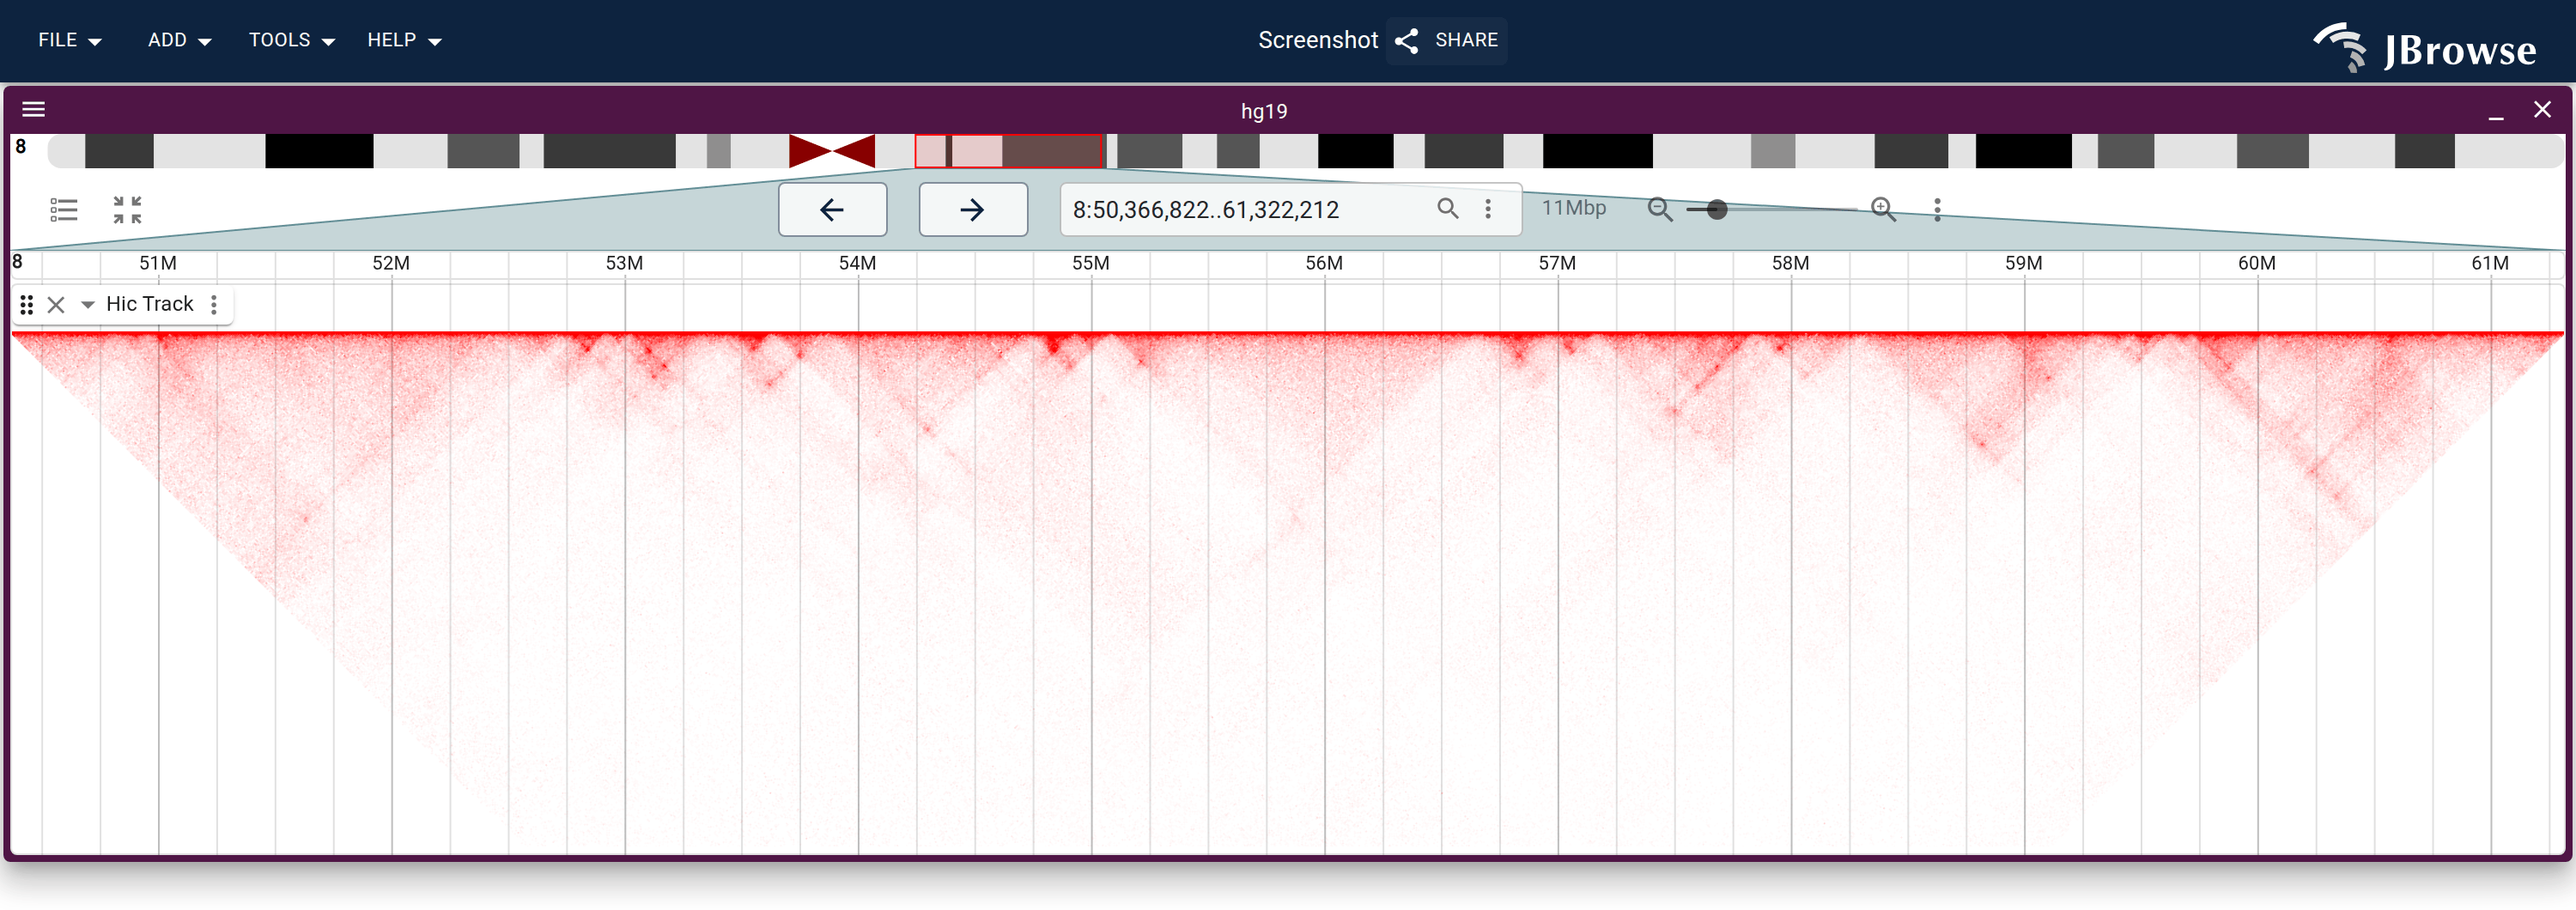
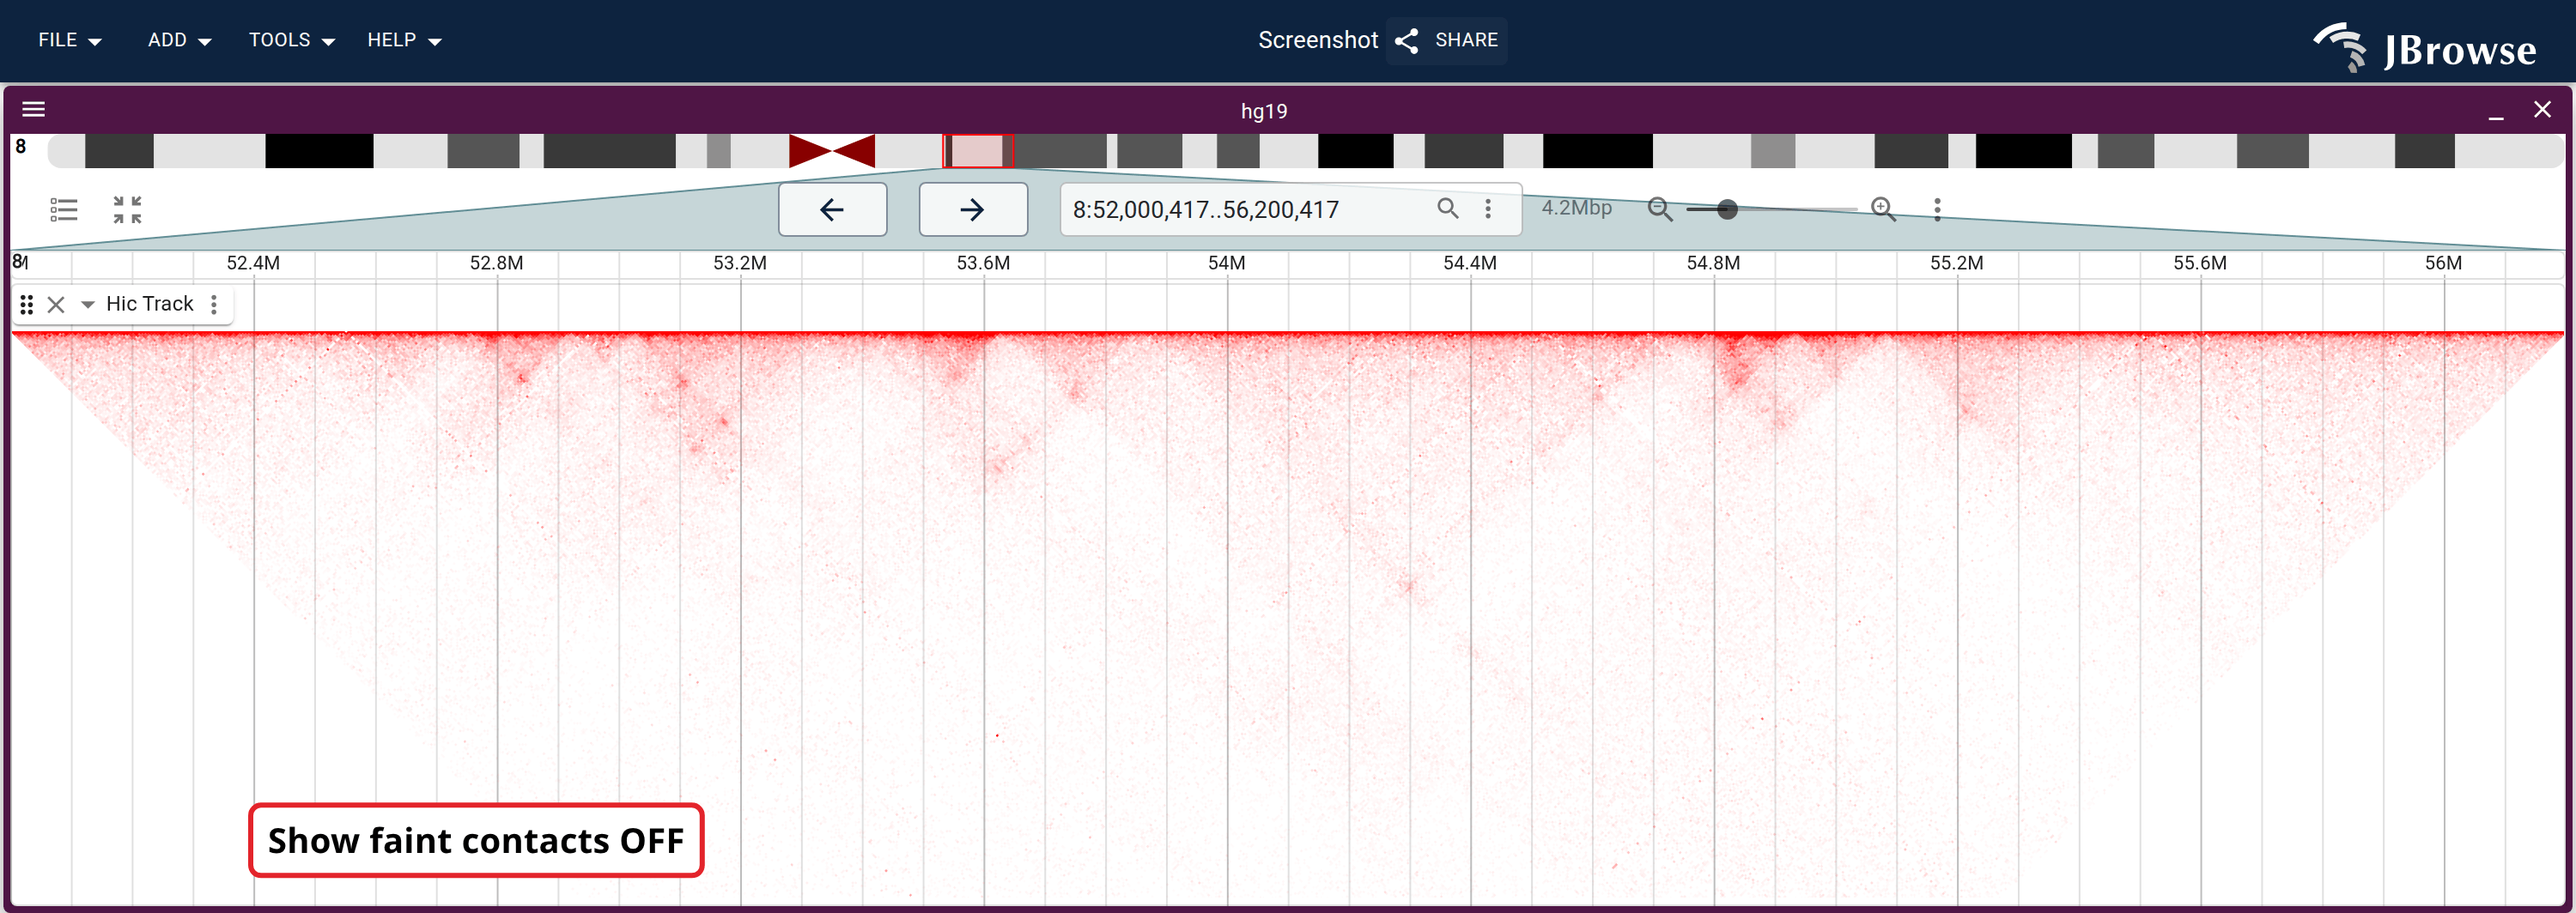
docs(website): give the Hi-C guide a whole-genome frame, and make the faint-contacts pair a comparison
Two review notes, one section.

The whole-genome overview asked for on `hic/two_regions` is a new figure rather
than a change to it: `two_regions` is the same region-pair machinery finding real
cross-region signal inside chr8, which the genome-wide frame cannot show.
`displayedRegionNames` is the declarative way in, and it names chr1 to chrY so
the unplaced and alt contigs don't take a third of the width for slivers.

Two things had to be settled before it was publishable. The first render was a
1px pink smear along the diagonal -- at 2.4 Mb/px contact frequency has decayed
over nearly every bin on screen, so on the linear ramp all 24 triangles sit under
the noise floor. Log scale makes them solid and the centromere becomes the notch
out of each one, so the guide says that rather than leaving `useLogScale` as an
unexplained setting on the spec. Second, the blocks *between* the chromosomes are
empty, and that is the file rather than the fetch: `intra_nofrag_30.hic`'s master
index (the footer at the header's `masterIndexPos`) holds 26 entries and every
one is a self-pair, `0_0` through `25_25`. The caption says so, because otherwise
the figure reads as "JBrowse doesn't draw translocations".

`hic/faint_contacts` was proposed for deletion. It stays -- the setting is on by
default, so it is the state every other Hi-C figure on the site is shot in, and
without a picture the "Adjusting the color scale" section asserts a difference
[…]

diff --git a/website/src/lib/galleryLinks.generated.ts b/website/src/lib/galleryLinks.generated.ts
@@ -57,8 +57,9 @@ export const specSessionUrls: Record<string, string> = {
   "alignments_track_arcs": "?config=test_data/config_demo.json&session=spec-%7B%22views%22%3A%5B%7B%22type%22%3A%22LinearGenomeView%22%2C%22assembly%22%3A%22hg19%22%2C%22loc%22%3A%22chr15%3A45%2C003%2C000-45%2C012%2C000%22%2C%22trackLabels%22%3A%22offset%22%2C%22tracks%22%3A%5B%7B%22trackId%22%3A%22ncbi_gff_hg19%22%2C%22type%22%3A%22LinearBasicDisplay%22%2C%22height%22%3A120%7D%2C%7B%22trackId%22%3A%22Pairend_StrandSpecific_51mer_Human_hg19%22%2C%22type%22%3A%22LinearAlignmentsDisplay%22%2C%22showSashimiLabels%22%3Atrue%2C%22sashimiArcsMode%22%3A%22auto%22%2C%22scaleType%22%3A%22log%22%2C%22featureHeight%22%3A1%2C%22featureSpacing%22%3A0%7D%5D%7D%5D%7D&sessionName=Screenshot",
   "hic_track": "?config=test_data/config_demo.json&session=spec-%7B%22views%22%3A%5B%7B%22type%22%3A%22LinearGenomeView%22%2C%22assembly%22%3A%22hg19%22%2C%22loc%22%3A%22chr8%3A50%2C366%2C343-61%2C321%2C733%22%2C%22trackLabels%22%3A%22offset%22%2C%22tracks%22%3A%5B%7B%22trackId%22%3A%22ncbi_gff_hg19%22%2C%22type%22%3A%22LinearBasicDisplay%22%2C%22showDescriptions%22%3Afalse%7D%2C%22hic%22%5D%7D%5D%7D&sessionName=Screenshot",
   "hic/two_regions": "?config=test_data/config_demo.json&session=spec-%7B%22views%22%3A%5B%7B%22type%22%3A%22LinearGenomeView%22%2C%22assembly%22%3A%22hg19%22%2C%22loc%22%3A%22chr8%3A52%2C000%2C000-54%2C000%2C000%20chr8%3A54%2C200%2C000-56%2C200%2C000%22%2C%22trackLabels%22%3A%22offset%22%2C%22tracks%22%3A%5B%22hic%22%5D%7D%5D%7D&sessionName=Screenshot",
-  "hic/percentile_off": "?config=test_data/config_demo.json&session=spec-%7B%22views%22%3A%5B%7B%22type%22%3A%22LinearGenomeView%22%2C%22assembly%22%3A%22hg19%22%2C%22loc%22%3A%22chr8%3A50%2C366%2C343-61%2C321%2C733%22%2C%22trackLabels%22%3A%22offset%22%2C%22tracks%22%3A%5B%7B%22trackId%22%3A%22hic%22%2C%22useColorPercentile%22%3Afalse%7D%5D%7D%5D%7D&sessionName=Screenshot",
-  "hic/percentile_on": "?config=test_data/config_demo.json&session=spec-%7B%22views%22%3A%5B%7B%22type%22%3A%22LinearGenomeView%22%2C%22assembly%22%3A%22hg19%22%2C%22loc%22%3A%22chr8%3A50%2C366%2C343-61%2C321%2C733%22%2C%22trackLabels%22%3A%22offset%22%2C%22tracks%22%3A%5B%7B%22trackId%22%3A%22hic%22%2C%22useColorPercentile%22%3Atrue%7D%5D%7D%5D%7D&sessionName=Screenshot",
+  "hic/whole_genome": "?config=test_data/config_demo.json&session=spec-%7B%22views%22%3A%5B%7B%22type%22%3A%22LinearGenomeView%22%2C%22assembly%22%3A%22hg19%22%2C%22displayedRegionNames%22%3A%5B%22chr1%22%2C%22chr2%22%2C%22chr3%22%2C%22chr4%22%2C%22chr5%22%2C%22chr6%22%2C%22chr7%22%2C%22chr8%22%2C%22chr9%22%2C%22chr10%22%2C%22chr11%22%2C%22chr12%22%2C%22chr13%22%2C%22chr14%22%2C%22chr15%22%2C%22chr16%22%2C%22chr17%22%2C%22chr18%22%2C%22chr19%22%2C%22chr20%22%2C%22chr21%22%2C%22chr22%22%2C%22chrX%22%2C%22chrY%22%5D%2C%22trackLabels%22%3A%22offset%22%2C%22tracks%22%3A%5B%7B%22trackId%22%3A%22hic%22%2C%22useLogScale%22%3Atrue%2C%22height%22%3A100%7D%5D%7D%5D%7D&sessionName=Screenshot",
+  "hic/percentile_off": "?config=test_data/config_demo.json&session=spec-%7B%22views%22%3A%5B%7B%22type%22%3A%22LinearGenomeView%22%2C%22assembly%22%3A%22hg19%22%2C%22loc%22%3A%22chr8%3A52%2C000%2C000-56%2C200%2C000%22%2C%22trackLabels%22%3A%22offset%22%2C%22tracks%22%3A%5B%7B%22trackId%22%3A%22hic%22%2C%22useColorPercentile%22%3Afalse%2C%22height%22%3A330%7D%5D%7D%5D%7D&sessionName=Screenshot",
+  "hic/percentile_on": "?config=test_data/config_demo.json&session=spec-%7B%22views%22%3A%5B%7B%22type%22%3A%22LinearGenomeView%22%2C%22assembly%22%3A%22hg19%22%2C%22loc%22%3A%22chr8%3A52%2C000%2C000-56%2C200%2C000%22%2C%22trackLabels%22%3A%22offset%22%2C%22tracks%22%3A%5B%7B%22trackId%22%3A%22hic%22%2C%22useColorPercentile%22%3Atrue%2C%22height%22%3A330%7D%5D%7D%5D%7D&sessionName=Screenshot",
   "hic/overlay_controls": "?config=test_data/config_demo.json&session=spec-%7B%22views%22%3A%5B%7B%22type%22%3A%22LinearGenomeView%22%2C%22assembly%22%3A%22hg19%22%2C%22loc%22%3A%22chr8%3A50%2C366%2C343-61%2C321%2C733%22%2C%22trackLabels%22%3A%22offset%22%2C%22tracks%22%3A%5B%7B%22trackId%22%3A%22hic%22%2C%22showLegend%22%3Atrue%2C%22showResolutionControls%22%3Atrue%7D%5D%7D%5D%7D&sessionName=Screenshot",
   "alignments/modifications2": "?config=test_data/config_demo.json&session=spec-%7B%22sessionTracks%22%3A%5B%7B%22type%22%3A%22AlignmentsTrack%22%2C%22trackId%22%3A%22human_chr20_mod_call_5mC_5hmC_CG_cram_modifications%22%2C%22name%22%3A%22human_chr20_mod_call_5mC_5hmC_CG%20(CRAM)%20(modifications)%22%2C%22assemblyNames%22%3A%5B%22hg38%22%5D%2C%22adapter%22%3A%7B%22type%22%3A%22CramAdapter%22%2C%22cramLocation%22%3A%7B%22uri%22%3A%22https%3A%2F%2Fjbrowse.org%2Fgenomes%2FGRCh38%2Fmethylation%2Fhuman_chr20_mod_call_5mC_5hmC_CG.cram%22%2C%22locationType%22%3A%22UriLocation%22%7D%2C%22craiLocation%22%3A%7B%22uri%22%3A%22https%3A%2F%2Fjbrowse.org%2Fgenomes%2FGRCh38%2Fmethylation%2Fhuman_chr20_mod_call_5mC_5hmC_CG.cram.crai%22%2C%22locationType%22%3A%22UriLocation%22%7D%2C%22sequenceAdapter%22%3A%7B%22type%22%3A%22BgzipFastaAdapter%22%2C%22fastaLocation%22%3A%7B%22uri%22%3A%22https%3A%2F%2Fjbrowse.org%2Fgenomes%2FGRCh38%2Ffasta%2Fhg38.prefix.fa.gz%22%2C%22locationType%22%3A%22UriLocation%22%7D%2C%22faiLocation%22%3A%7B%22uri%22%3A%22https%3A%2F%2Fjbrowse.org%2Fgenomes%2FGRCh38%2Ffasta%2Fhg38.prefix.fa.gz.fai%22%2C%22locationType%22%3A%22UriLocation%22%7D%2C%22gziLocation%22%3A%7B%22uri%22%3A%22https%3A%2F%2Fjbrowse.org%2Fgenomes%2FGRCh38%2Ffasta%2Fhg38.prefix.fa.gz.gzi%22%2C%22locationType%22%3A%22UriLocation%22%7D%7D%7D%7D%5D%2C%22views%22%3A%5B%7B%22type%22%3A%22LinearGenomeView%22%2C%22assembly%22%3A%22hg38%22%2C%22loc%22%3A%22chr20%3A19%2C742%2C000-19%2C778%2C000%22%2C%22tracks%22%3A%5B%22cpgisland_ucsc_hg38%22%2C%7B%22trackId%22%3A%22human_chr20_mod_call_5mC_5hmC_CG_cram_modifications%22%2C%22colorBy%22%3A%7B%22type%22%3A%22modifications%22%7D%2C%22forceLoad%22%3Atrue%7D%2C%7B%22trackId%22%3A%22human_chr20_mod_call_5mC_5hmC_CG_cram%22%2C%22colorBy%22%3A%7B%22type%22%3A%22modifications%22%2C%22modifications%22%3A%7B%22fillUnmarked%22%3Atrue%7D%7D%2C%22forceLoad%22%3Atrue%7D%5D%7D%5D%7D&sessionName=Screenshot",
   "alignments/haplotype": "?config=test_data/config_demo.json&session=spec-%7B%22sessionTracks%22%3A%5B%7B%22type%22%3A%22AlignmentsTrack%22%2C%22trackId%22%3A%22hg002_nanopore_hp%22%2C%22name%22%3A%22HG002%20ONT%22%2C%22assemblyNames%22%3A%5B%22hg19%22%5D%2C%22adapter%22%3A%7B%22type%22%3A%22BamAdapter%22%2C%22bamLocation%22%3A%7B%22uri%22%3A%22https%3A%2F%2Fjbrowse.org%2Fdemos%2Fhg002%2FHG002.ONTrel2.HP.hs37d5.demo_slices.bam%22%2C%22locationType%22%3A%22UriLocation%22%7D%2C%22index%22%3A%7B%22location%22%3A%7B%22uri%22%3A%22https%3A%2F%2Fjbrowse.org%2Fdemos%2Fhg002%2FHG002.ONTrel2.HP.hs37d5.demo_slices.bam.bai%22%2C%22locationType%22%3A%22UriLocation%22%7D%2C%22indexType%22%3A%22BAI%22%7D%7D%7D%5D%2C%22views%22%3A%5B%7B%22type%22%3A%22LinearGenomeView%22%2C%22assembly%22%3A%22hg19%22%2C%22loc%22%3A%221%3A63%2C005%2C000-63%2C008%2C000%22%2C%22tracks%22%3A%5B%7B%22trackId%22%3A%22hg002_nanopore_hp%22%2C%22type%22%3A%22LinearAlignmentsDisplay%22%2C%22height%22%3A500%2C%22forceLoad%22%3Atrue%2C%22groupBy%22%3A%7B%22type%22%3A%22tag%22%2C%22tag%22%3A%22HP%22%7D%2C%22colorBy%22%3A%7B%22type%22%3A%22tag%22%2C%22tag%22%3A%22HP%22%7D%7D%5D%7D%5D%7D&sessionName=Screenshot",

diff --git a/website/scripts/specs/alignments.ts b/website/scripts/specs/alignments.ts
@@ -536,6 +536,50 @@ export const alignmentsSpecs: ScreenshotSpec[] = [
     settleMs: 10000,
   },
 
+  // The same region-pair machinery taken to the whole genome: every chromosome
+  // displayed at once, so the fetch is every chromosome against every other one
+  // and the picture is the block diagonal. `displayedRegionNames` is the
+  // declarative way in — whole chromosomes in the order given, no menu to drive
+  // — and it names the 24 main ones so the unplaced and alt contigs don't take a
+  // third of the width for slivers too narrow to draw a triangle in.
+  //
+  // useLogScale is not decoration here, it is what makes the figure exist. At
+  // 2.4 Mb/px contact frequency has decayed over almost every bin on screen, so
+  // on the linear ramp all 24 triangles render as a 1px pink smear along the
+  // diagonal (rendered it that way first). On log they are solid, and the
+  // centromeres show as the notch out of each one.
+  //
+  // The off-diagonal blocks are empty because the FILE has nothing to put there,
+  // not because the fetch or the binsize failed: intra_nofrag_30.hic's master
+  // index (footer at the header's masterIndexPos) holds 26 entries and every one
+  // is a self-pair, `0_0` through `25_25`. Worth knowing before reading this as
+  // "JBrowse doesn't draw translocations" — hic/two_regions is the same
+  // machinery finding real cross-region signal within chr8.
+  {
+    mode: 'url',
+    name: 'hic/whole_genome',
+    url: lgvSession(DEMO_CONFIG, {
+      assembly: 'hg19',
+      displayedRegionNames: [
+        ...Array.from({ length: 22 }, (_, i) => `chr${i + 1}`),
+        'chrX',
+        'chrY',
+      ],
+      trackLabels: 'offset',
+      // 100, against a default that leaves ~190px of white under the drawing: a
+      // triangle is half as tall as its region is wide, and the widest region
+      // here is chr1 at ~113px of the 1450px genome, so 57px is the tallest
+      // thing the display has to hold
+      tracks: [{ trackId: 'hic', useLogScale: true, height: 100 }],
+    }),
+    viewportHeight: 302,
+    readySelector: '[data-testid="hic-display-done"]',
+    // 24 regions is 300 region pairs to fetch, so both waits are well past what
+    // a single-region figure needs
+    readyTimeout: 180000,
+    settleMs: 20000,
+  },
+
   // The two halves of the faint-contacts comparison. Same region, same ramp;
   // the only difference is where the color scale saturates. With
   // useColorPercentile off the diagonal owns the scale (maxScore/20) and the
@@ -543,34 +587,54 @@ export const alignmentsSpecs: ScreenshotSpec[] = [
   // percentile and off-diagonal structure separates from background. Kept as
   // two declarative specs composed below, so each state stays an openable live
   // link and neither can drift from a menu-driving capture.
-  {
-    mode: 'url',
-    name: 'hic/percentile_off',
+  //
+  // 4.2 Mb, not the 11 Mb the rest of this section is shot on. The setting is
+  // about CONTRAST, and at 11 Mb the off half was a blank frame with a red line
+  // across the top of it — a comparison whose losing side shows nothing reads as
+  // a broken capture rather than as a washed-out scale. Here the TADs are
+  // several hundred px wide, so both halves have blocks in them and the
+  // difference is that one has edges.
+  //
+  // Each half carries its own label, because a compose has no annotation layer
+  // of its own — the parts are captured separately and appended — and without
+  // one the stack needs the caption to say which frame is which.
+  ...(
+    [
+      ['hic/percentile_off', false, 'Show faint contacts OFF'],
+      ['hic/percentile_on', true, 'Show faint contacts ON (the default)'],
+    ] as const
+  ).map(([name, useColorPercentile, label]) => ({
+    mode: 'url' as const,
+    name,
     url: lgvSession(DEMO_CONFIG, {
       assembly: 'hg19',
-      loc: 'chr8:50,366,343-61,321,733',
+      loc: 'chr8:52,000,000-56,200,000',
       trackLabels: 'offset',
-      tracks: [{ trackId: 'hic', useColorPercentile: false }],
+      tracks: [{ trackId: 'hic', useColorPercentile, height: 330 }],
     }),
-    viewportHeight: 530,
+    // the whole 330px display has to be inside the capture, or the label
+    // anchored to the bottom of the track band is drawn off the frame
+    viewportHeight: 532,
     readySelector: '[data-testid="hic-display-done"]',
     readyTimeout: 60000,
     settleMs: 10000,
-  },
-  {
-    mode: 'url',
-    name: 'hic/percentile_on',
-    url: lgvSession(DEMO_CONFIG, {
-      assembly: 'hg19',
-      loc: 'chr8:50,366,343-61,321,733',
-      trackLabels: 'offset',
-      tracks: [{ trackId: 'hic', useColorPercentile: true }],
-    }),
-    viewportHeight: 530,
-    readySelector: '[data-testid="hic-display-done"]',
-    readyTimeout: 60000,
-    settleMs: 10000,
-  },
+    annotations: [
+      {
+        type: 'text' as const,
+        text: label,
+        fontSize: 20,
+        // bottom-left of the display, which is the corner of the triangle's
+        // bounding box that has no data in it at any zoom
+        anchor: {
+          track: 'hic',
+          alignX: 'left' as const,
+          alignY: 'bottom' as const,
+        },
+        dx: 150,
+        dy: -26,
+      },
+    ],
+  })),
   {
     mode: 'compose',
     name: 'hic/faint_contacts',

diff --git a/website/docs/user_guides/hic_track.md b/website/docs/user_guides/hic_track.md
@@ -54,7 +54,7 @@ Off, the diagonal owns the scale and everything below it washes out; on (the
 default) the scale saturates at the 95th percentile of counts and TAD structure
 separates from background.
 
-<Figure caption="The same region with Show faint contacts off (top) and on (bottom). Only the saturation point of the color scale differs; the contact data is identical." src="/img/hic/faint_contacts.png" links="Show faint contacts off=hic/percentile_off,Show faint contacts on=hic/percentile_on" />
+<Figure caption="4.2 Mb of hg19 chr8 with Show faint contacts off and on, each frame labeled with its setting. Only the saturation point of the color scale differs; the contact data is identical. Off, the diagonal takes the whole ramp and the TADs under it are barely above white; on, each TAD is a block with an edge and the corner dots between them are visible." src="/img/hic/faint_contacts.png" links="Show faint contacts off=hic/percentile_off,Show faint contacts on=hic/percentile_on" />
 
 **Show → Log scale** maps counts to color on a log2 scale, compressing the
 diagonal further still.
@@ -87,6 +87,17 @@ Inter-chromosomal matrices are commonly only stored at coarse binsizes. When the
 auto-picked resolution is finer than anything the file holds for that pair, the
 cross-block is absent while the intra-chromosomal triangles still draw. Step
 **Coarser** until it appears.
+
+The same thing scales to the whole genome. **View → Show all regions in
+assembly** puts every chromosome in the view at once, which makes the fetch every
+chromosome against every other one and the drawing a block diagonal.
+
+<Figure caption="hg19 chr1 to chrY in one view, log scale. Each chromosome is its own triangle and the notch out of each one is its centromere. The blocks between them are empty because this file stores intra-chromosomal contacts only." src="/img/hic/whole_genome.png" />
+
+Log scale is what makes that figure readable rather than optional decoration. At
+whole-genome zoom one pixel is megabases, contact frequency has decayed over
+almost every bin on screen, and on the linear ramp the twenty-four triangles
+render as a thin smear along the diagonal.
 
 ## Fitting the triangle to the track height
 
